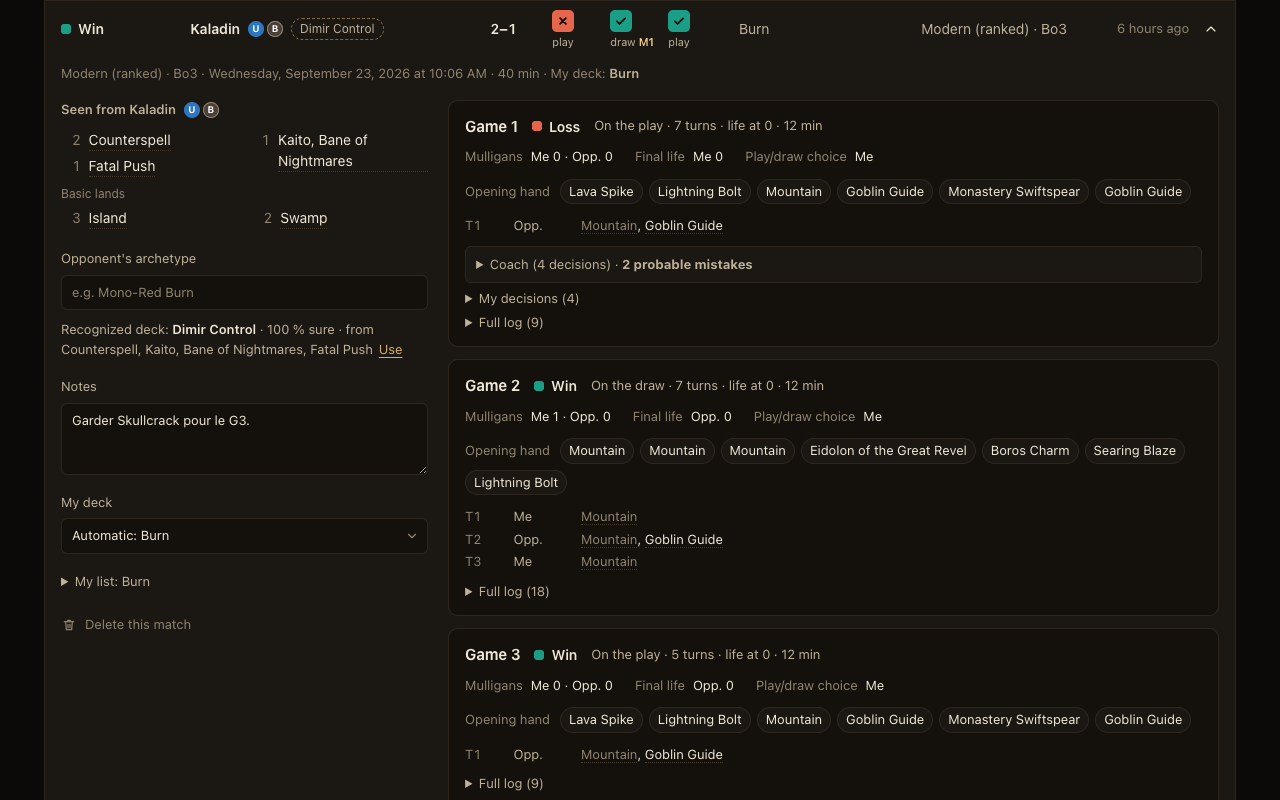
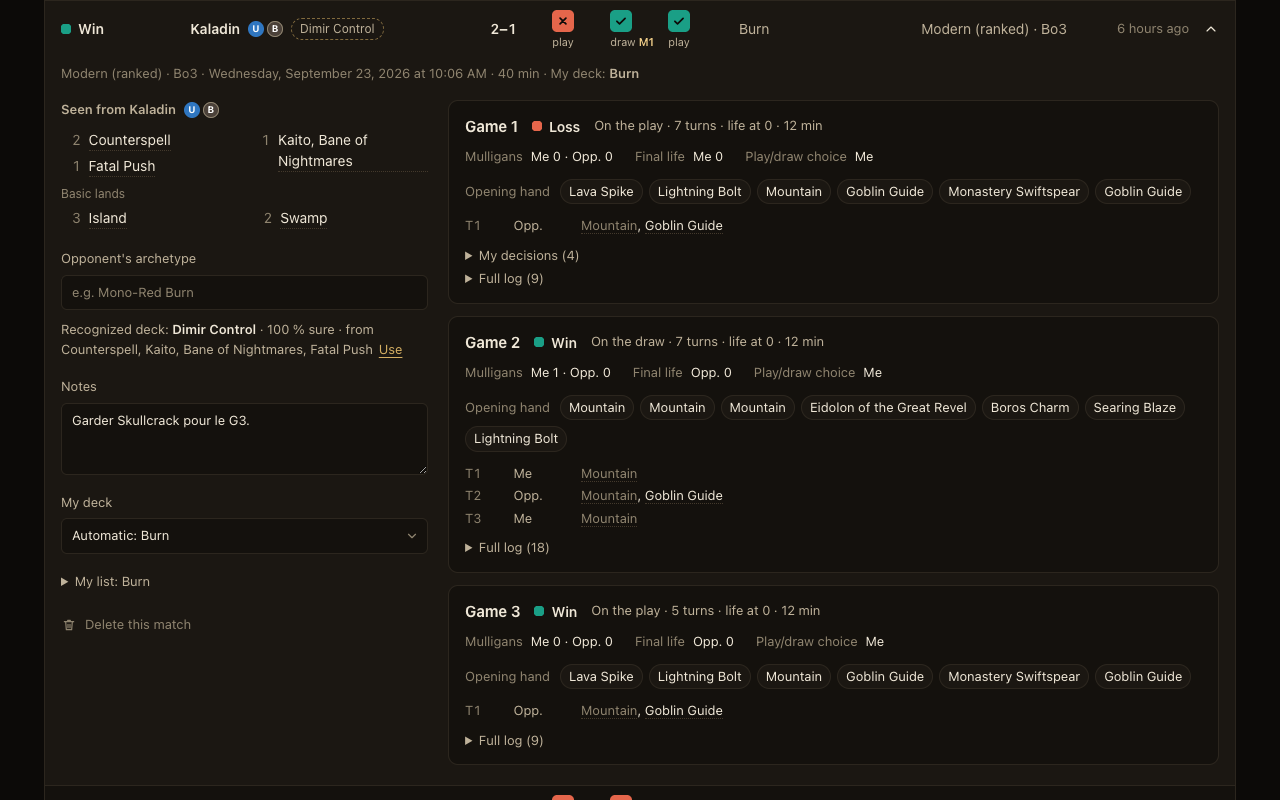
Store build ships without the Coach
release.sh leaves out coach.js and coach-model.json and strips their script tag from dashboard.html;
dashboard.js hides the Coach block (and skips the model fetch) when coach.js is absent. "My decisions"
stays: it is a plain log and needs no model. store/shots.js now aborts coach.js/coach-model.json like
the store build and fails on page errors; screenshots, store texts and the privacy policy updated.

diff --git a/store/shots.js b/store/shots.js
@@ -7,6 +7,10 @@ const sleep = (ms) => new Promise((r) => setTimeout(r, ms));
   const b = await puppeteer.launch({ executablePath: CHROME, headless: true, args: ['--allow-file-access-from-files'] });
   const open = async (lang) => {
     const p = await b.newPage();
+    // Same as the store build: no coach.js, no model (release.sh leaves them out); page errors would mean the dashboard needs them.
+    await p.setRequestInterception(true);
+    p.on('request', (r) => (/coach(-model\.json|\.js)$/.test(r.url()) ? r.abort() : r.continue()));
+    p.on('pageerror', (e) => { console.error('page error:', e.message); process.exitCode = 1; });
     await p.setViewport({ width: 1280, height: 800, deviceScaleFactor: 1 });
     await p.goto(`file://${H}/harness-demo.html`);
     await p.evaluate(() => localStorage.clear());

diff --git a/dashboard.js b/dashboard.js
@@ -237,6 +237,7 @@ function refresh() {
 // --- coach: win probability before/after each recorded decision (see coach.js) ---
 let coachModel = null; // coach-model.json when present and valid, else the heuristic
 async function initCoach() {
+  if (!Coach) return; // the store build ships without coach.js (see release.sh)
   try {
     const m = await (await fetch('coach-model.json')).json();
     if (m && Array.isArray(m.features) && m.features.length === Coach.FEATURES.length && m.features.every((f, i) => f === Coach.FEATURES[i])) coachModel = m;
@@ -261,6 +262,7 @@ function coachRows(m, g) {
 }
 
 function coachBlock(m, g) {
+  if (!Coach) return '';
   const rows = coachRows(m, g);
   if (!rows.length) return '';
   const pct = (v) => (v === null ? '—' : `${Math.round(v * 100)} %`);

diff --git a/store/STORE.md b/store/STORE.md
@@ -1,6 +1,6 @@
 # Chrome Web Store — listing and submission
 
-Everything to paste into the developer dashboard. Build the zip with `./release.sh` (bump `version` in `manifest.json` first: the store refuses a version it already has).
+Everything to paste into the developer dashboard. The store build has no Coach: `release.sh` leaves out `coach.js` and `coach-model.json`. Build the zip with `./release.sh` (bump `version` in `manifest.json` first: the store refuses a version it already has).
 
 ## Listing
 
@@ -23,7 +23,6 @@ While you play, the extension icon shows a REC badge. Click it to open the dashb
 • Stats: win rates on the play and on the draw, with and without mulligan, by your deck and by opponent archetype. Click a row to filter.
 • Filters and search: opponent, archetype, card seen, note, format, deck, period, result.
 • Notes per match, "My deck" picker, export to JSON or CSV, import, delete everything.
-• Coach (beta): reviews your in-game decisions and flags the ones that cost the most win probability.
 
 Everything stays on your computer. The extension never sends anything to endstep.cc, never plays for you, and has no server, account, analytics or ads. Only public game information (what you could see on screen) is recorded, and nothing is recorded while spectating.
 
@@ -41,7 +40,6 @@ Pendant une partie, l'icône affiche un badge REC. Un clic ouvre le tableau de b
 • Statistiques : au play et à la draw, avec ou sans mulligan, par deck joué et par archétype adverse. Un clic sur une ligne filtre la liste.
 • Filtres et recherche : adversaire, archétype, carte vue, note, format, deck, période, résultat.
 • Notes par match, sélecteur « Mon deck », export JSON ou CSV, import, tout effacer.
-• Coach (bêta) : relit tes décisions en jeu et signale celles qui ont le plus coûté en probabilité de victoire.
 
 Tout reste sur ton ordinateur. L'extension n'envoie jamais rien à endstep.cc, ne joue jamais à ta place, et n'a ni serveur, ni compte, ni analytique, ni publicité. Seules les informations publiques de la partie (ce que tu vois à l'écran) sont enregistrées, et rien en mode spectateur.
 
@@ -58,9 +56,9 @@ Non affilié à endstep.cc ni à Wizards of the Coast.
 - Host permission `https://endstep.cc/*`: the only site the extension works on. The content script observes the game messages the site already exchanges with the browser (WebSocket) to build the match record. Nothing is sent.
 - Content script in the page world (`world: MAIN`): the game state is only available by observing the site's own WebSocket, which is not accessible from the isolated world. The script is read-only.
 
-**Remote code**: No. All code is in the package; `coach-model.json` is data (model weights), not code.
+**Remote code**: No. All code is in the package.
 
-**Data usage** (check): *Website content* (game state shown by endstep.cc), *User activity* (the user's in-game choices, for the Coach feature). Nothing else. All of it stays on the device.
+**Data usage** (check): *Website content* (game state shown by endstep.cc), *User activity* (the user's in-game choices, listed under "My decisions" in a game's detail). Nothing else. All of it stays on the device.
 
 **Certifications** (all true): not sold to third parties; not used for purposes unrelated to the single purpose; not used to determine creditworthiness or for lending.
 
@@ -71,7 +69,7 @@ Non affilié à endstep.cc ni à Wizards of the Coast.
 Screenshots in this folder, 1280×800 PNG without alpha, made from the demo data of `test/harness/shots.js` (no real player):
 
 1. `1-dashboard-en.png` — dashboard overview, English
-2. `2-match-detail.png` — expanded match: opponent cards seen, recognized archetype, notes, per-game detail and Coach line
+2. `2-match-detail.png` — expanded match: opponent cards seen, recognized archetype, notes, per-game detail
 3. `3-dashboard-fr.png` — dashboard overview, French
 
 Regenerate after a UI change: `node test/harness/gen-demo.js && node store/shots.js`.

diff --git a/PRIVACY.md b/PRIVACY.md
@@ -13,7 +13,7 @@ Only information that is visible on screen during your own games on endstep.cc:
 - your deck (name and list, as returned by the site to your own browser);
 - opponent cards you saw (battlefield, graveyard, exile, revealed cards), colours;
 - per game: play/draw, mulligans, your opening hand, turns, life totals, duration, cards played, the game log;
-- your in-game decisions (the prompt, the options offered, what you chose, and the board at that moment), used by the Coach feature;
+- your in-game decisions (the prompt, the options offered, what you chose, and the board at that moment), shown under "My decisions" in a game's detail;
 - notes and the opponent archetype you type in the dashboard.
 
 Nothing is recorded when you are spectating.
@@ -46,7 +46,7 @@ Endstep Tracker est une extension Chrome qui enregistre les parties de Magic: Th
 
 ## Ce qui est enregistré
 
-Uniquement des informations visibles à l'écran pendant tes propres parties sur endstep.cc : métadonnées du match (date, format, classé ou non, Bo1/Bo3, score, résultat), noms des joueurs tels qu'affichés par le site, ton deck (nom et liste, tels que le site les renvoie à ton navigateur), les cartes adverses vues, et par game : play/draw, mulligans, ta main de départ, tours, points de vie, durée, cartes jouées, journal, ainsi que tes décisions en jeu (utilisées par le Coach) et les notes que tu saisis dans le tableau de bord. Rien n'est enregistré en mode spectateur.
+Uniquement des informations visibles à l'écran pendant tes propres parties sur endstep.cc : métadonnées du match (date, format, classé ou non, Bo1/Bo3, score, résultat), noms des joueurs tels qu'affichés par le site, ton deck (nom et liste, tels que le site les renvoie à ton navigateur), les cartes adverses vues, et par game : play/draw, mulligans, ta main de départ, tours, points de vie, durée, cartes jouées, journal, ainsi que tes décisions en jeu (affichées sous « Mes décisions ») et les notes que tu saisis dans le tableau de bord. Rien n'est enregistré en mode spectateur.
 
 ## Où c'est stocké
 

diff --git a/README.md b/README.md
@@ -63,4 +63,4 @@ Le premier rejoue une vraie séquence de messages capturée (Bo3 contre l'IA) et
 
 ## Publication (Chrome Web Store)
 
-`./release.sh` construit `dist/endstep-tracker-<version>.zip` avec les seuls fichiers d'exécution (ni tests, ni `decks/`). Les textes de la fiche, les justifications de permissions et les captures à téléverser sont dans `store/` ; la politique de confidentialité à déclarer est [`PRIVACY.md`](PRIVACY.md). Le store refuse un zip dont la version existe déjà : incrémenter `version` dans `manifest.json` avant chaque envoi.
+`./release.sh` construit `dist/endstep-tracker-<version>.zip` avec les seuls fichiers d'exécution (ni tests, ni `decks/`). Les textes de la fiche, les justifications de permissions et les captures à téléverser sont dans `store/` ; la politique de confidentialité à déclarer est [`PRIVACY.md`](PRIVACY.md). La version store ne contient pas le Coach : `release.sh` écarte `coach.js` et `coach-model.json` et retire leur balise du dashboard, qui masque alors le bloc Coach. Le store refuse un zip dont la version existe déjà : incrémenter `version` dans `manifest.json` avant chaque envoi.
